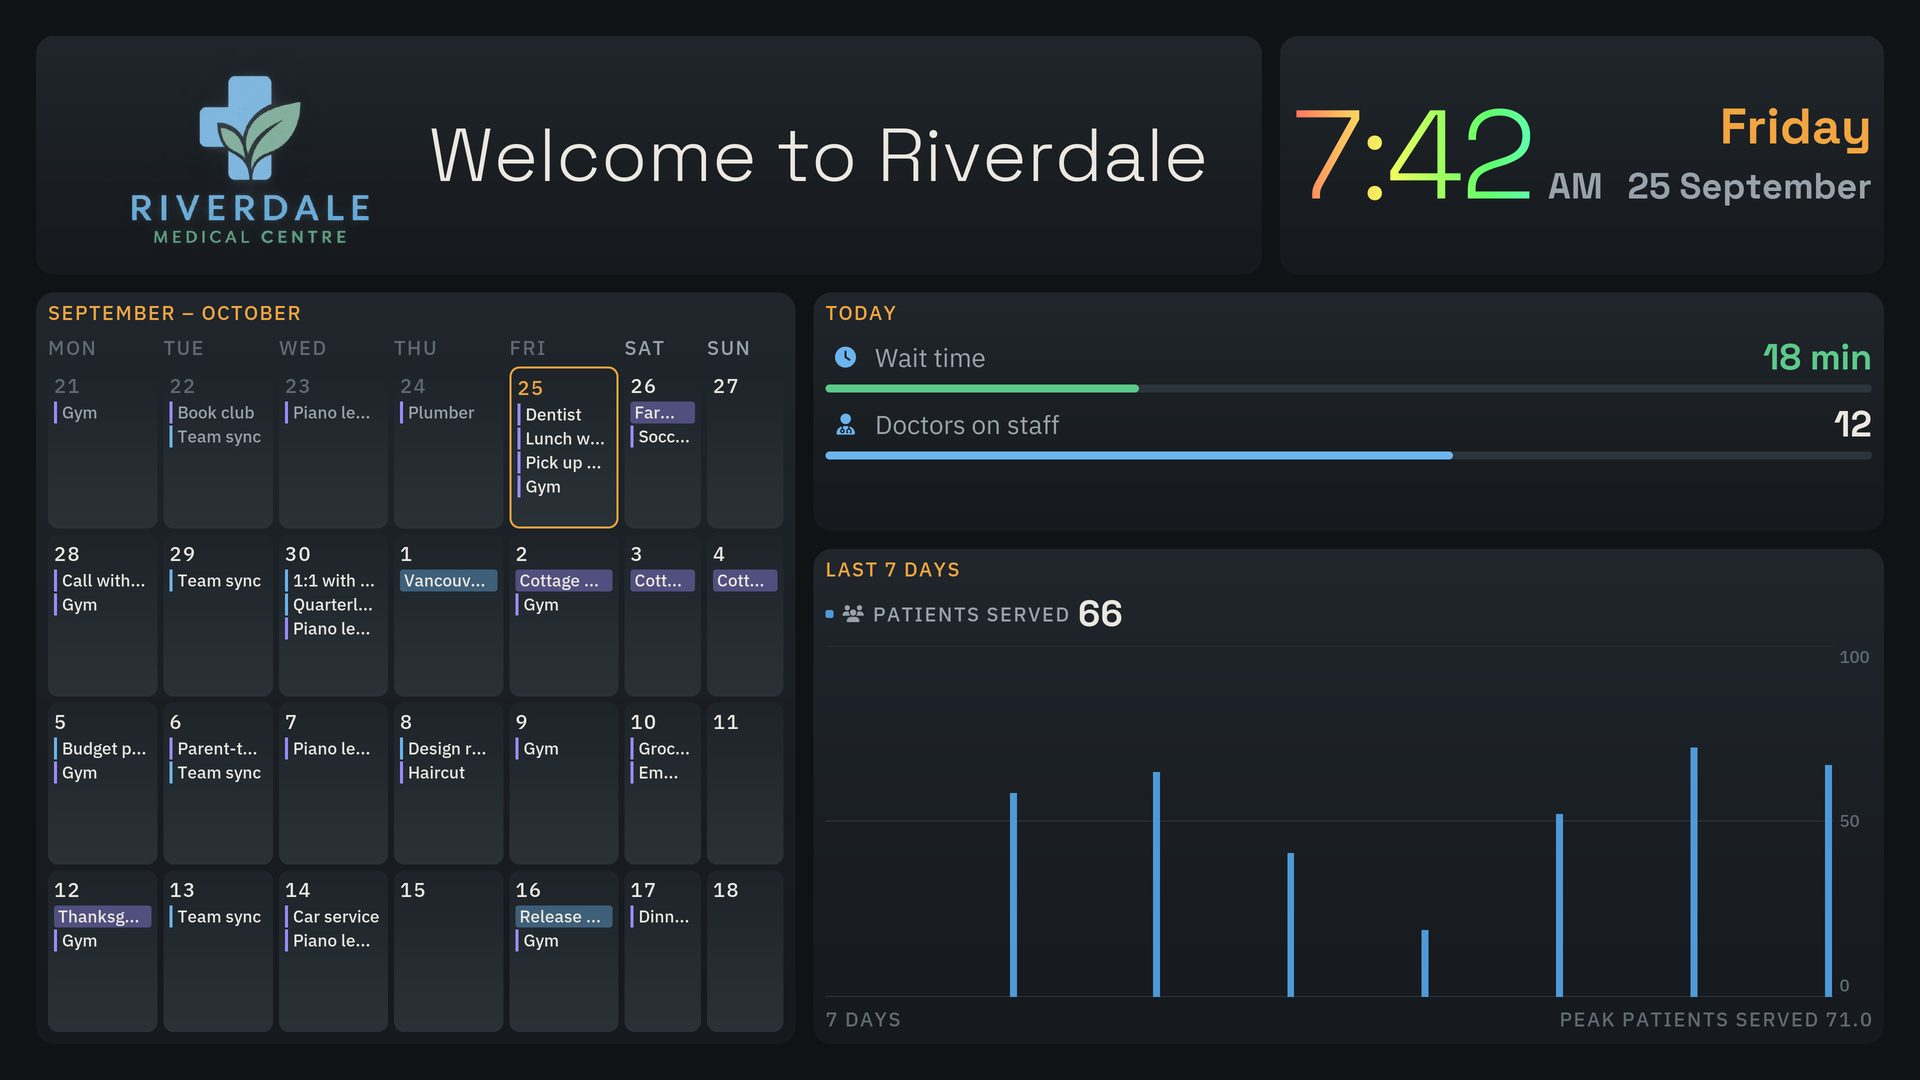
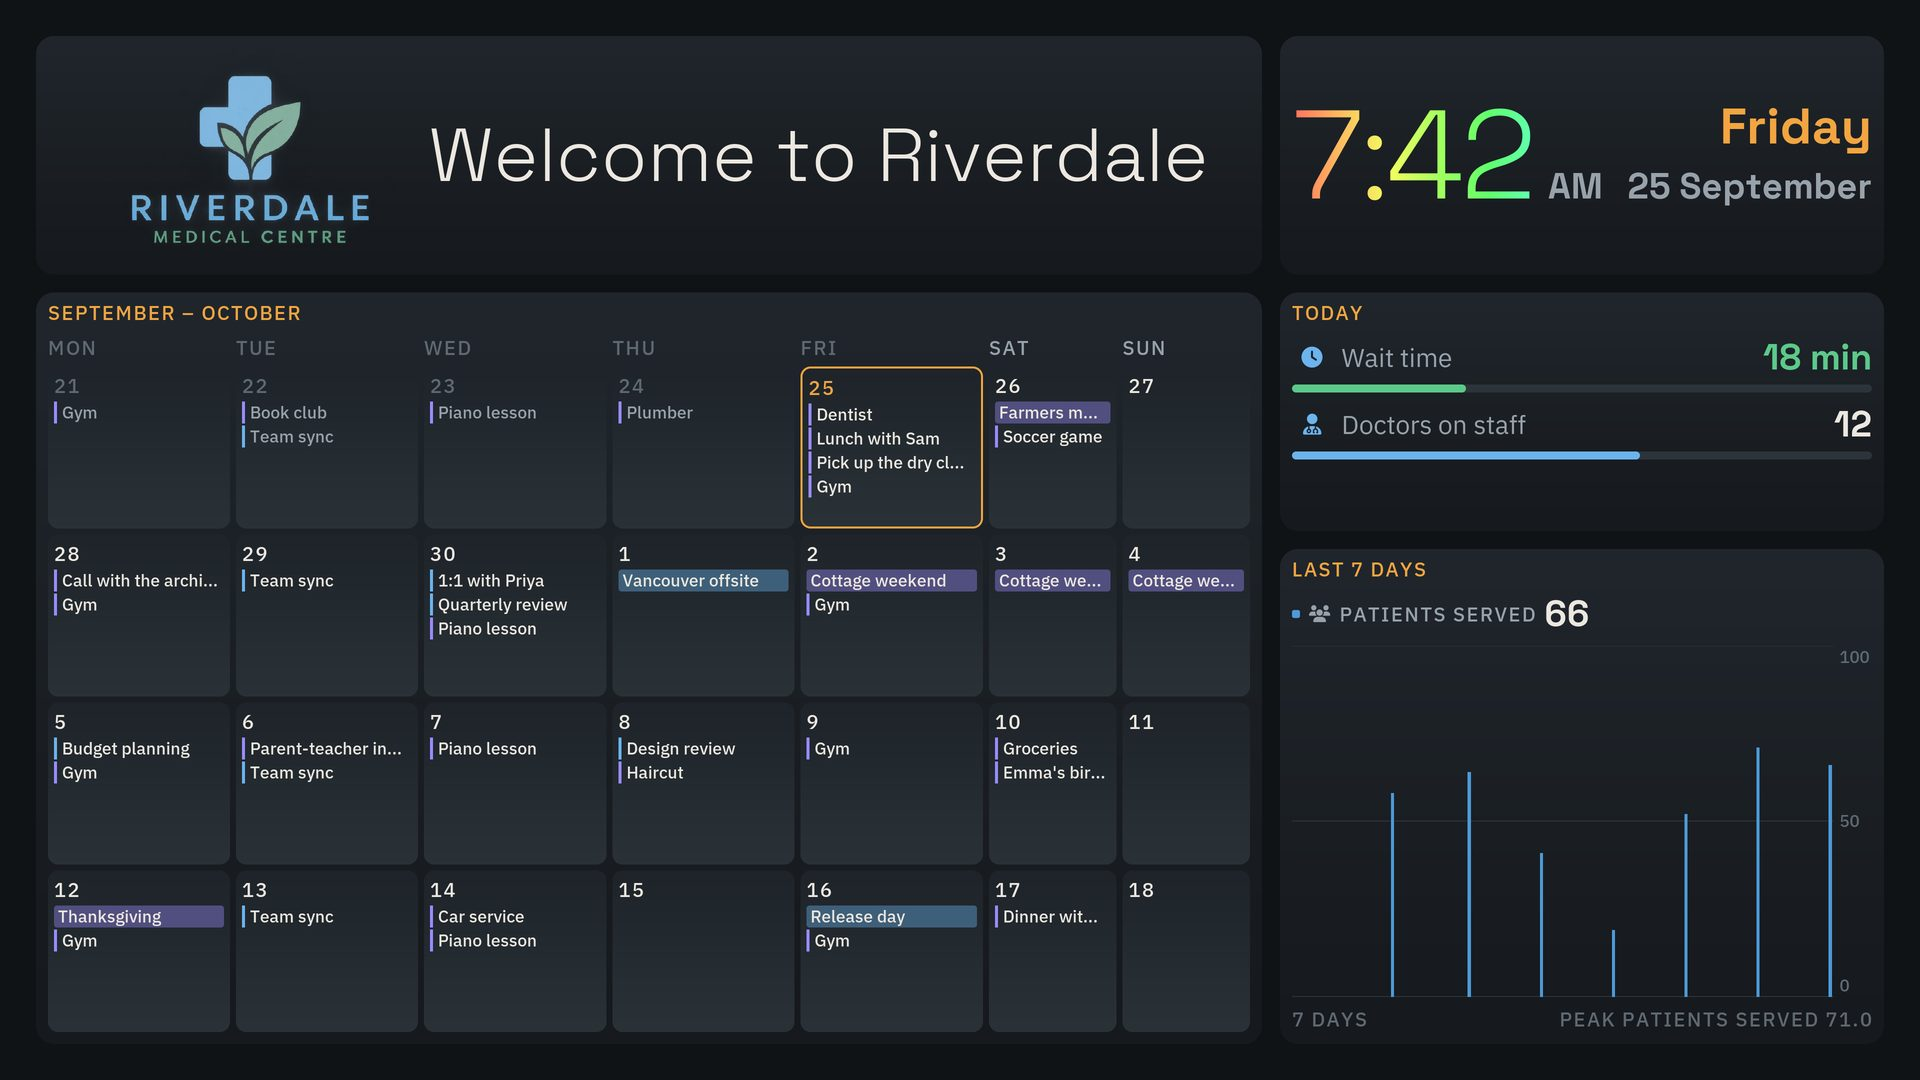
Business view: calendar about 65% wide, metrics and graph 35%
Claude-Session: https://claude.ai/code/session_014R5ZsbYZjstBX8rvzcLWTz

diff --git a/index.html b/index.html
@@ -132,6 +132,6 @@
   </main>
 
   <footer class="site-footer"><div class="section-wrap footer-inner"><a class="brand" href="#top"><canvas class="logo" width="152" height="152" aria-hidden="true"></canvas><span>QRK <b>Board</b></span></a><span class="footer-tagline">Your screen. Your dashboard. Nothing complicated.</span><div class="footer-links"><a href="privacy.html">Privacy</a><a href="#faq">FAQ</a><a href="feedback.html">Feedback</a><a href="mailto:qrkboard@gmail.com">Contact</a></div><span class="copyright">© <span id="year">2026</span> QRK Board</span></div></footer>
-  <script src="script.js?v=3"></script>
+  <script src="script.js?v=4"></script>
 </body>
 </html>
